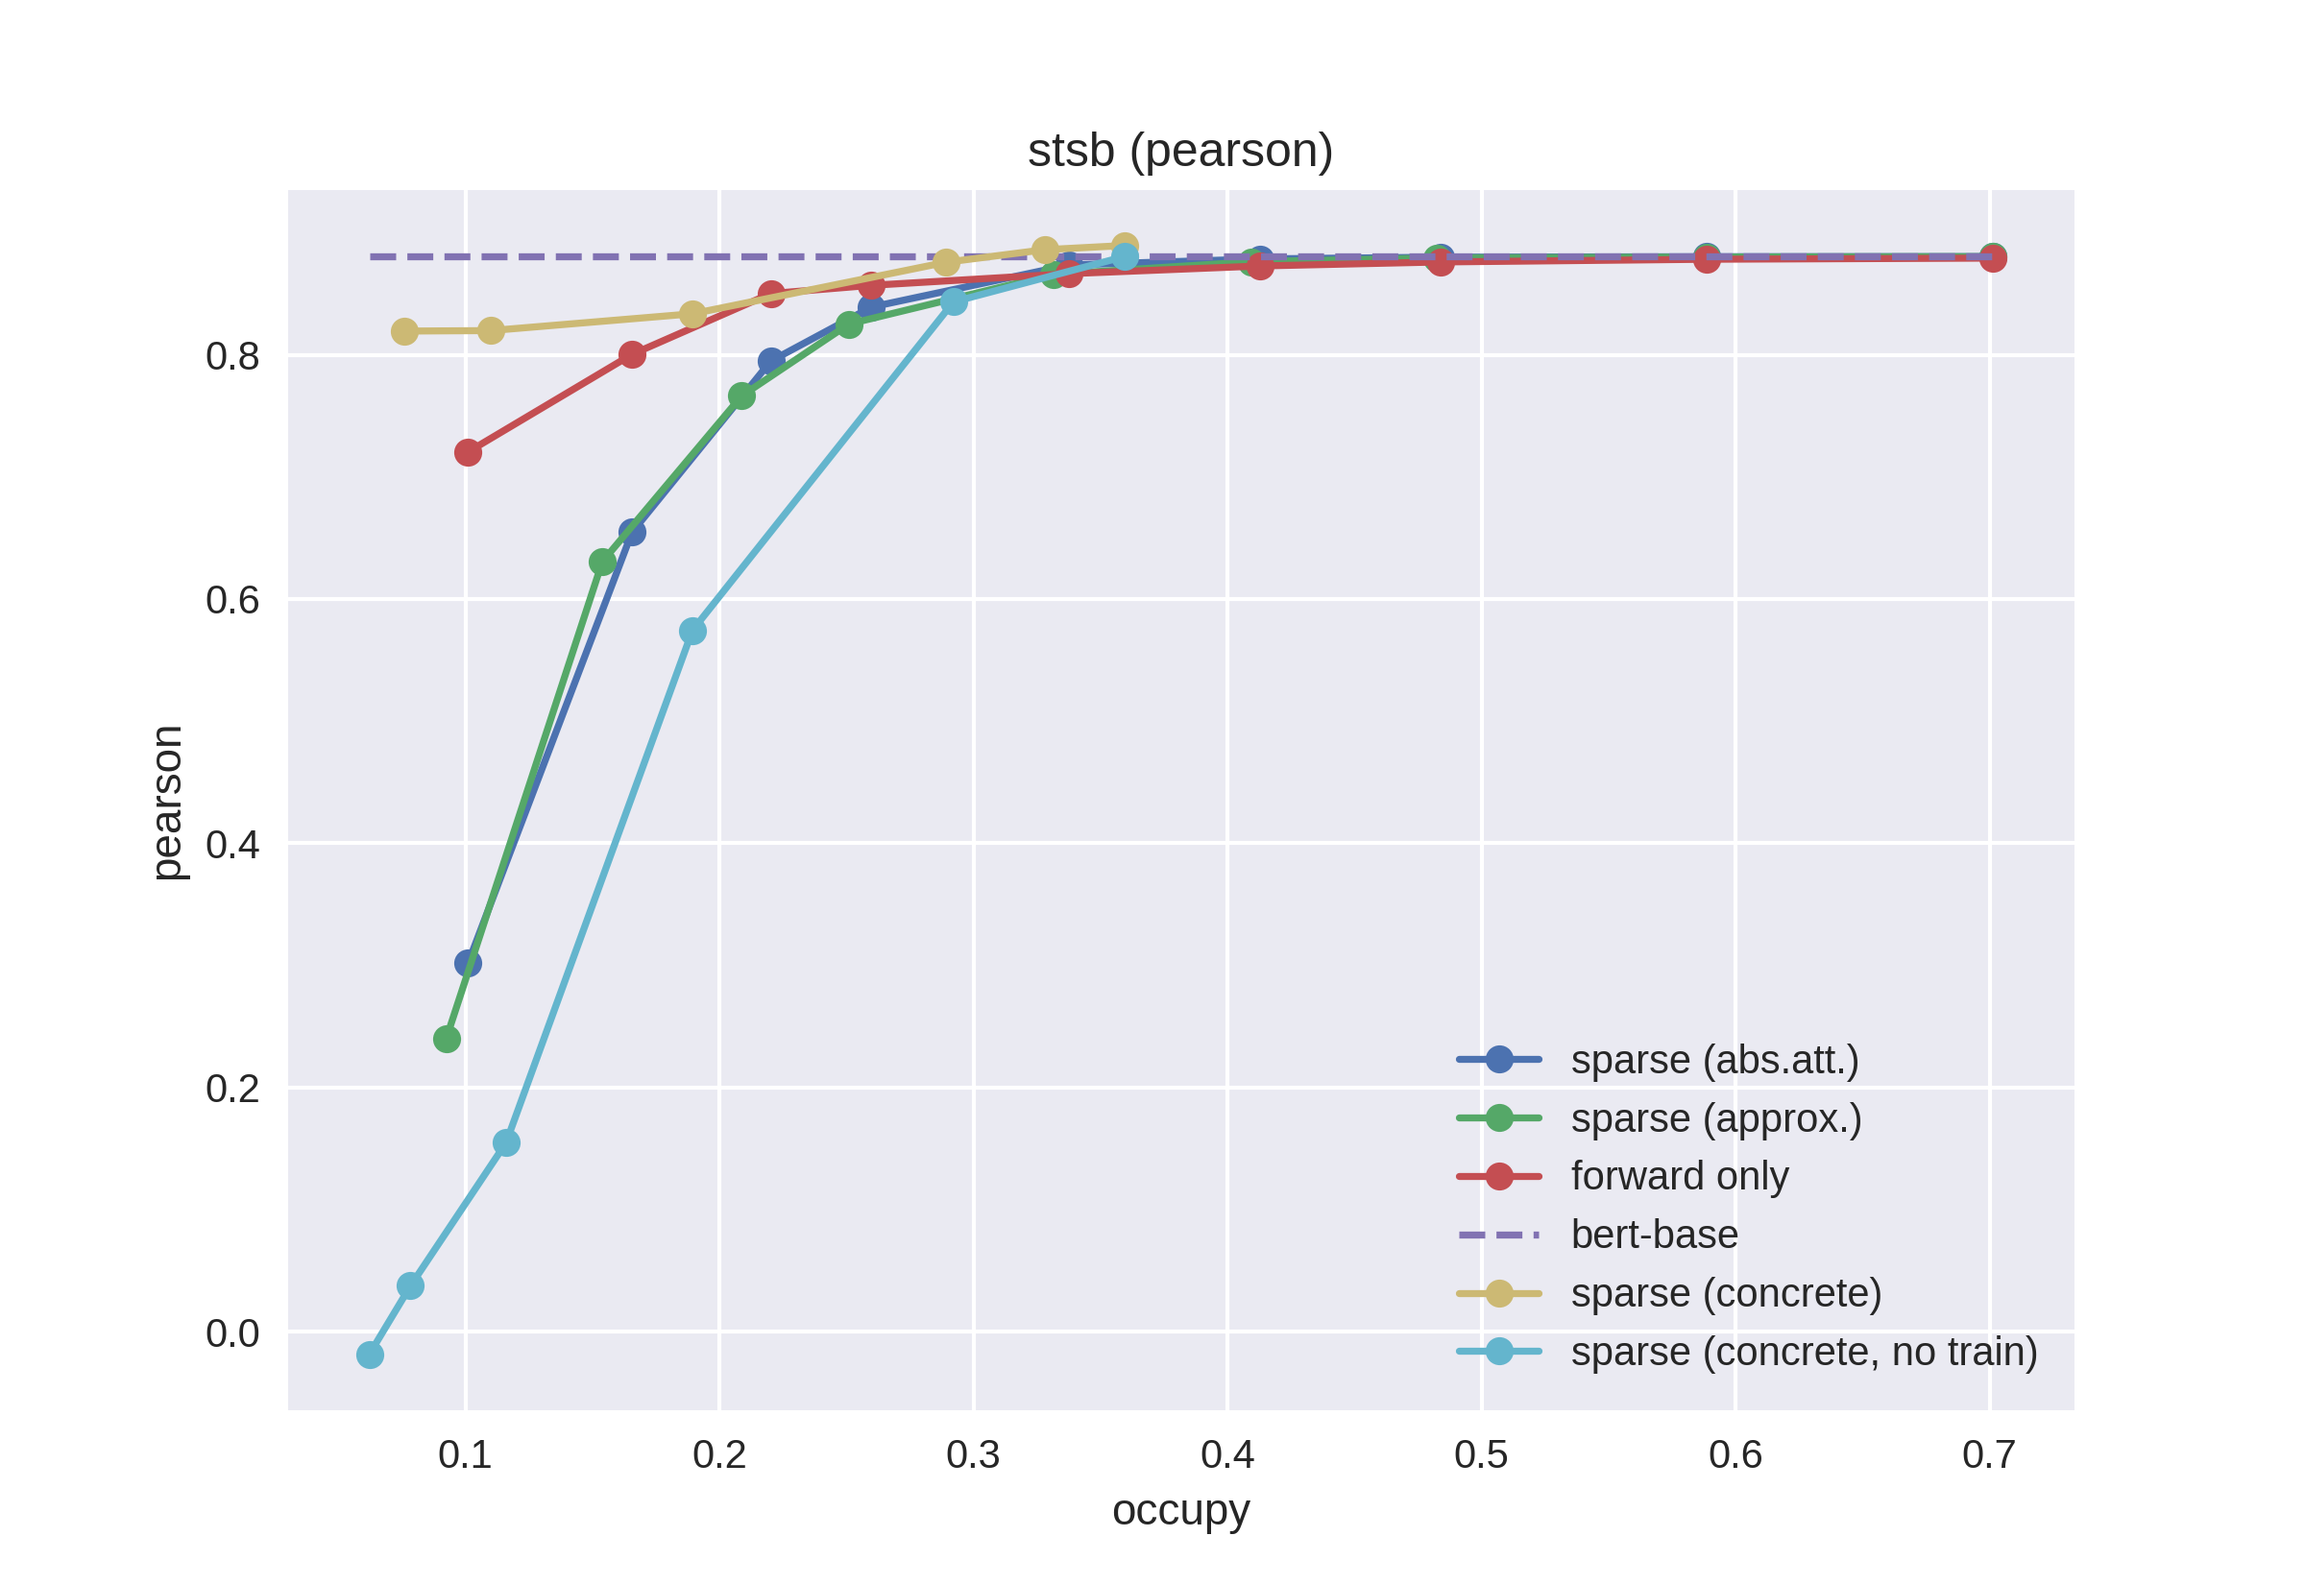
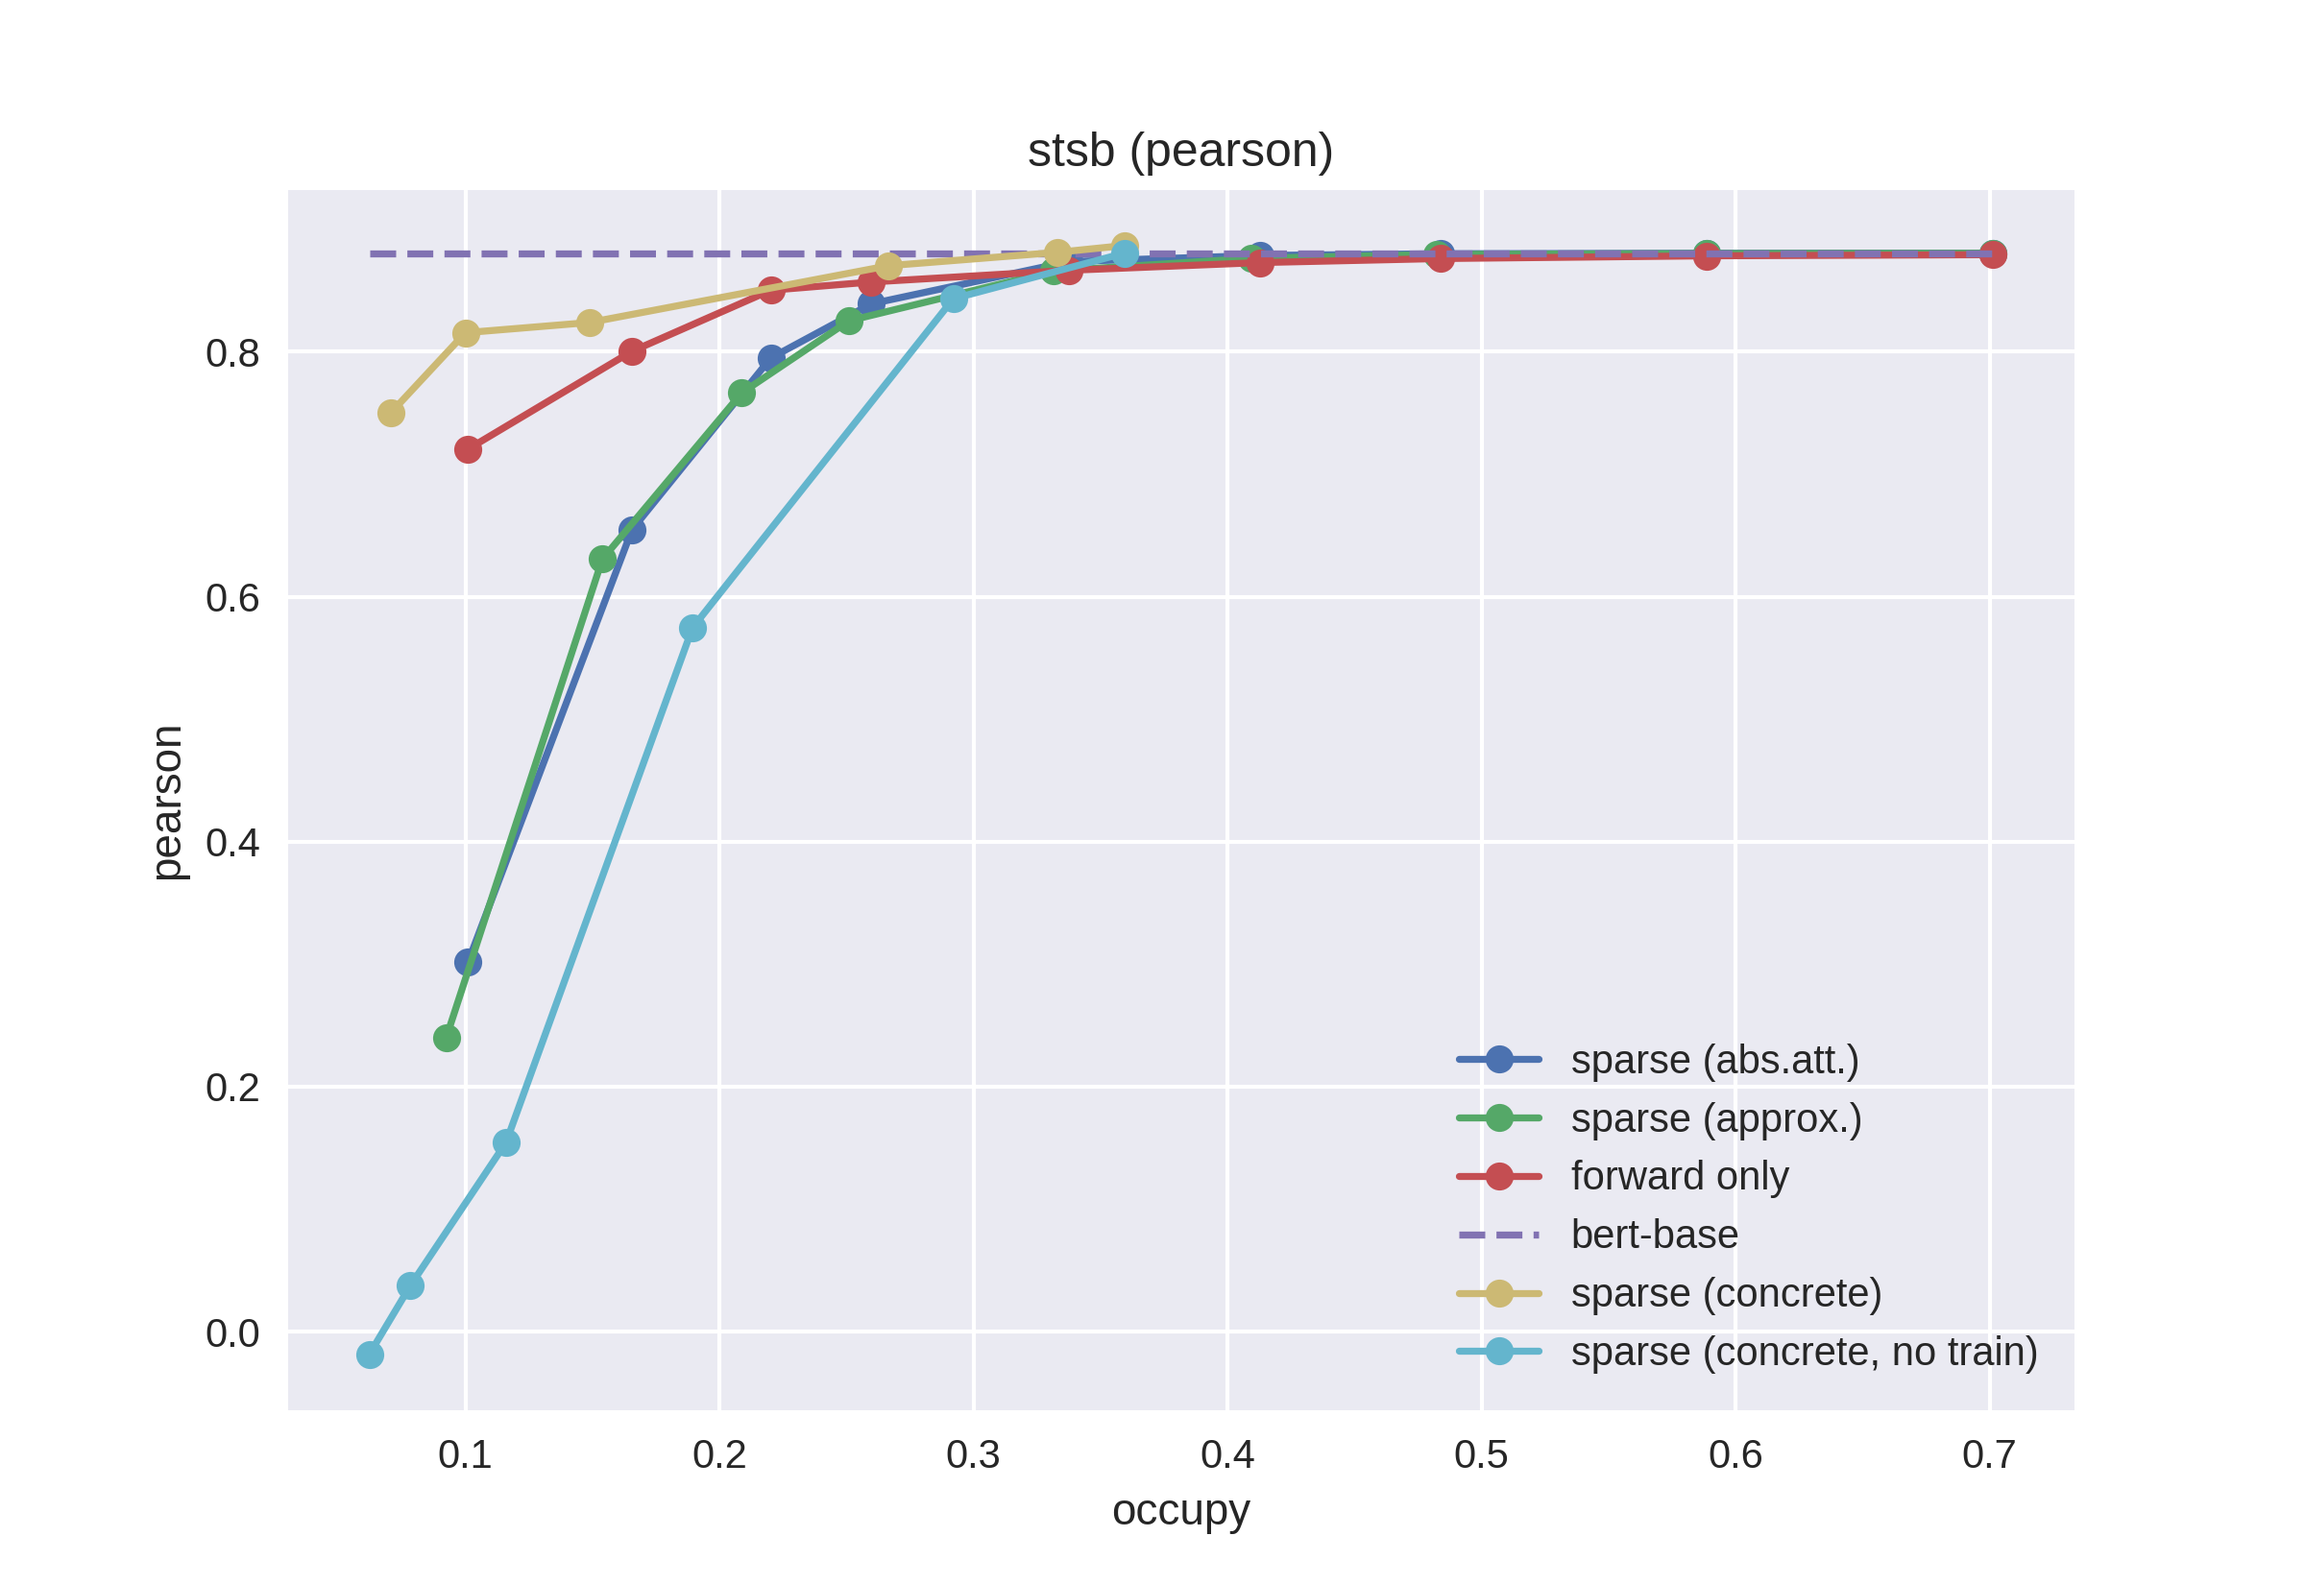
stsb update; enable clipping with large set

diff --git a/trainer/concrete_trainer.py b/trainer/concrete_trainer.py
@@ -84,7 +84,7 @@ task_to_gradient_accumulate_step = {
     "qqp":  8,
     "rte":  8,
     "sst2": 4,
-    "stsb": 4,
+    "stsb": 1,
     "wnli": 1,
 }
 
@@ -497,8 +497,9 @@ class ConcreteTrainer:
             self.scaler.scale(loss / self.gradient_accumulate_steps).backward()
             
             if ((step+1) % self.gradient_accumulate_steps) == 0:
-                # self.scaler.unscale_(self.optimizer)
-                # torch.nn.utils.clip_grad_norm_(self.sparse_bert.parameters(), 0.5)
+                if self.dataset in ['stsb', 'sst2', 'mnli', 'qnli', 'qqp']:
+                    self.scaler.unscale_(self.optimizer)
+                    torch.nn.utils.clip_grad_norm_(self.sparse_bert.parameters(), 0.5)
 
                 self.scaler.step(self.optimizer)
                 self.scaler.update()
